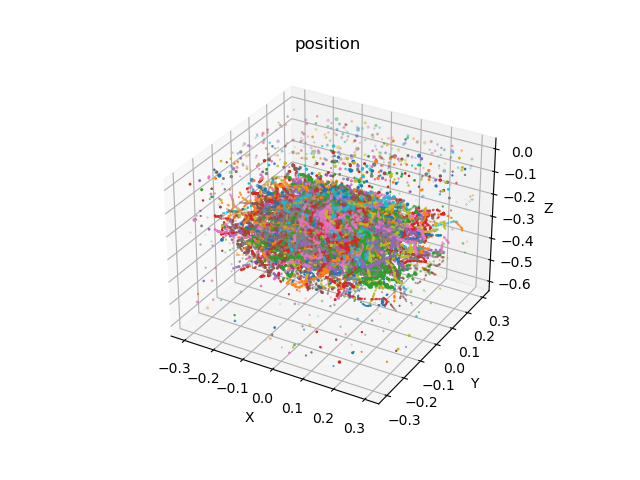
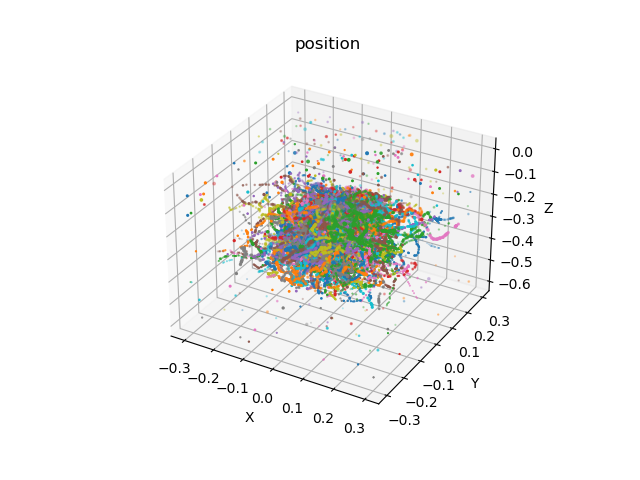
with probes

Changed region(s): [[0.2812, 0.25, 0.75, 0.6562], [0.4688, 0.6562, 0.5312, 0.6875], [0.7188, 0.4062, 0.75, 0.4375]]

diff --git a/main.py b/main.py
@@ -3,6 +3,33 @@ from tools.drawing import draw_mat_info, draw_photon_plot_3d, draw_photon_cut
 
 from copy import deepcopy
 
+def judge(probe,pho_list):
+    """
+    :param probe: 终于用上的光学探头位置
+    :param pho_list:  这个光子的传播路径
+    :return: Bool 表示是否达到光学探头  如果条件满足 返回true
+    """
+    p1 = probe.p_1
+    [prob_x,prob_y,prob_z] = p1.position
+    [width, height] = p1.scale
+    half_height = height/2
+
+    in_probe = False
+    for position in pho_list:
+        pho_x,pho_y,pho_z = abs(position)  # 当前位置取模，相当于对称来一遍,两个压缩成一个
+        # prob_x <= pho_x and pho_x <= (prob_x + width)
+        # 0 <= pho_y and pho_y <= half_height
+        # 0 <= pho_z and pho_z <= prob_z
+        if prob_x <= pho_x and pho_x <= (prob_x + width) and pho_y <= half_height and pho_z <= prob_z:
+            in_probe = True
+            break
+        # 同理需要考虑xy互换的情况
+        if prob_x <= pho_y and pho_y <= (prob_x + width) and pho_x <= half_height:
+            in_probe = True
+            break
+
+    return in_probe
+
 
 def simulation(opt, photon, probe, light, tissue, with_print=False):
     d_total_pho_list, d_total_idx_list, d_total_weight = [], [], []
@@ -11,16 +38,19 @@ def simulation(opt, photon, probe, light, tissue, with_print=False):
 
         # 忽略判断光子数目的,有空再补
         photon.set_source(opt, light)
-        photon.set_tissue(tissue)
+        photon.set_tissue(tissue)  #
         photon.set_others()
 
         d_pho_list, d_idx_list, d_weight = [], [], []
+
         while photon.pho_status:  # 光子只要没死就一直随机怼
 
             d_pho_list.append(photon.pho_pos)
             d_weight.append(photon.pho_w)
             photon.set_step()  # 运动长度
             while photon.move_sleft > 0:  # 迭代一次光子移动的sleft 按照一个方向走到死
+                # 理论上在这, 但是可能会出问题？
+                #
                 photon.iteration_sleft(tissue, opt.flag_boundary)
 
             d_float = deepcopy(photon.pho_index)
@@ -31,10 +61,15 @@ def simulation(opt, photon, probe, light, tissue, with_print=False):
         if photon_index % 1000 == 0:
             print('index finished', photon.num_index)
             pass
-
-        d_total_pho_list.append(d_pho_list)
-        d_total_idx_list.append(d_idx_list)
-        d_total_weight.append(d_weight)
+        # tissue内mat_r没有过使用，这东西每次copy一份上个一个光子的mat_f # 追加在 set_tissue()里
+        # 该轮光子路径中，如果有满足条件的，保留
+        if judge(probe,d_pho_list):
+            d_total_pho_list.append(d_pho_list)
+            d_total_idx_list.append(d_idx_list)
+            d_total_weight.append(d_weight)
+        # 没有满足条件的, mat_f 退回 mat_r,并且不加
+        else:
+            tissue.mat_f = tissue.mat_r.view()
 
     print('------------  finish ------------')
 

diff --git a/main_pure.py b/main_pure.py
@@ -1,0 +1,64 @@
+from models import *
+from tools.drawing import draw_mat_info, draw_photon_plot_3d, draw_photon_cut
+
+from copy import deepcopy
+
+
+def simulation(opt, photon, probe, light, tissue, with_print=False):
+    d_total_pho_list, d_total_idx_list, d_total_weight = [], [], []
+    for photon_index in range(opt.photon_number):  # 最外层转光子数目
+        photon.num_index = photon_index
+
+        # 忽略判断光子数目的,有空再补
+        photon.set_source(opt, light)
+        photon.set_tissue(tissue)  #
+        photon.set_others()
+
+        d_pho_list, d_idx_list, d_weight = [], [], []
+
+        while photon.pho_status:  # 光子只要没死就一直随机怼
+
+            d_pho_list.append(photon.pho_pos)
+            d_weight.append(photon.pho_w)
+            photon.set_step()  # 运动长度
+            while photon.move_sleft > 0:  # 迭代一次光子移动的sleft 按照一个方向走到死
+                # 理论上在这, 但是可能会出问题？
+                #
+                photon.iteration_sleft(tissue, opt.flag_boundary)
+
+            d_float = deepcopy(photon.pho_index)
+            d_idx_list.append(d_float)
+
+            photon.change_direction()  # SPIN update angle
+            photon.roulette()  # CHECK ROULETTE
+        if photon_index % 1000 == 0:
+            print('index finished', photon.num_index)
+            pass
+
+        d_total_pho_list.append(d_pho_list)
+        d_total_idx_list.append(d_idx_list)
+        d_total_weight.append(d_weight)
+
+
+    print('------------  finish ------------')
+
+    draw_mat_info(option, tissue, opt.photon_number)
+
+    draw_photon_plot_3d(opt, d_total_pho_list, d_total_weight, 'scatter', 'position')
+    draw_photon_plot_3d(opt, d_total_idx_list, d_total_weight, 'scatter', 'index')
+    draw_photon_plot_3d(opt, d_total_pho_list, d_total_weight, 'line', 'position')
+    draw_photon_plot_3d(opt, d_total_idx_list, d_total_weight, 'line', 'index')
+
+    draw_photon_cut(opt, d_total_pho_list, d_total_weight, 'scatter', 'position')
+    draw_photon_cut(opt, d_total_pho_list, d_total_weight, 'line', 'position')
+
+
+if __name__ == '__main__':
+    option = Argument().init_mci()  # read mci、 write prop
+    photon = Photon()
+    probe = Probe_list()  # 4 probe location
+    light = Light(option)  # data.txt
+    tissue = Tissue(option)
+
+    print('Load info success, Begin simulation')
+    simulation(option, photon, probe, light, tissue)

diff --git a/tools/drawing.py b/tools/drawing.py
@@ -48,8 +48,9 @@ def draw_photon_plot_3d(opt, info_list, info_weight, plot_type, title_name=''):
     list_s = []
     fig = plt.figure()
     ax = plt.axes(projection='3d')
-
-    for i in range(math.floor(opt.photon_number/2)):
+    # received_number = math.floor(opt.photon_number/2)  # 原来的
+    received_number = len(info_list)
+    for i in range(received_number):
         np_list = np.array(info_list[i])
         np_weight = np.array(info_weight[i])
         np_list = np.transpose(np_list)
@@ -122,7 +123,9 @@ def draw_photon_cut(opt,info_list,info_weight,plot_type, title_name=''):
     plt.grid(which='minor')
     plt.grid(which='major',linewidth =2.5)
 
-    for i in range(math.floor(opt.photon_number/5)):
+    # received_number = math.floor(opt.photon_number/2)
+    received_number = len(info_list)
+    for i in range(received_number):
         np_list = np.array(info_list[i])
         np_weight = np.array(info_weight[i])
         np_list = np.transpose(np_list)

diff --git a/models/Probes.py b/models/Probes.py
@@ -9,7 +9,12 @@ class Probe:   # position : [x,y,hh]  scale : [width,height]
 
 class Probe_list:
     def __init__(self):
-        self.p_1 = Probe([-0.6 + 0.0945, -0.1675, 1.22], [0.189, 0.355])
-        self.p_2 = Probe([0.6 - 0.0945, -0.1675, 1.22], [0.189, 0.355])
-        self.p_3 = Probe([0, -0.6, 1.22], [0.355, 0.189])
-        self.p_4 = Probe([0, 0.6 - 0.189, 1.22], [0.355, 0.189])
+        self.p_1 = Probe([0.05, 0, 0.122], [0.02, 0.036])
+        self.p_2 = Probe([-0.05, 0, 0.122], [0.02, 0.036])
+        self.p_3 = Probe([0, 0.05, 0.122], [0.036, 0.02])
+        self.p_4 = Probe([0, -0.05, 0.122], [0.036, 0.02])
+
+        # self.p_1 = Probe([-0.6 + 0.0945, -0.1675, 1.22], [0.189, 0.355])
+        # self.p_2 = Probe([0.6 - 0.0945, -0.1675, 1.22], [0.189, 0.355])
+        # self.p_3 = Probe([0, -0.6, 1.22], [0.355, 0.189])
+        # self.p_4 = Probe([0, 0.6 - 0.189, 1.22], [0.355, 0.189])

diff --git a/models/Photons.py b/models/Photons.py
@@ -71,8 +71,10 @@ class Photon:
         type = tissue.mat_v[self.pho_index[2], self.pho_index[1], self.pho_index[0]]
         # print(type)
         self.tis_mua = tissue.v_mua[type - 1]  # 应该是需要-1的?
-        self.tis_mus = tissue.v_mus[type - 1]  # 应该是需要-1的?
-        self.tis_g = tissue.v_g[type - 1]  # 应该是需要-1的?
+        self.tis_mus = tissue.v_mus[type - 1]
+        self.tis_g = tissue.v_g[type - 1]
+        # 为了检测光子是否进入探测器位置,view()用来避免浅复制
+        tissue.mat_r = tissue.mat_f.view()
 
     def set_others(self):
         # 重置光子其他信息 未接触边界 光子存活 重置光子移动

diff --git a/readme.md b/readme.md
@@ -37,3 +37,9 @@ b-->c3(plots)
 ```
 
 enjoy
+
+### Daily update
+
+### 2023/02/21
+
+更新了添加探头前后的对比效果
